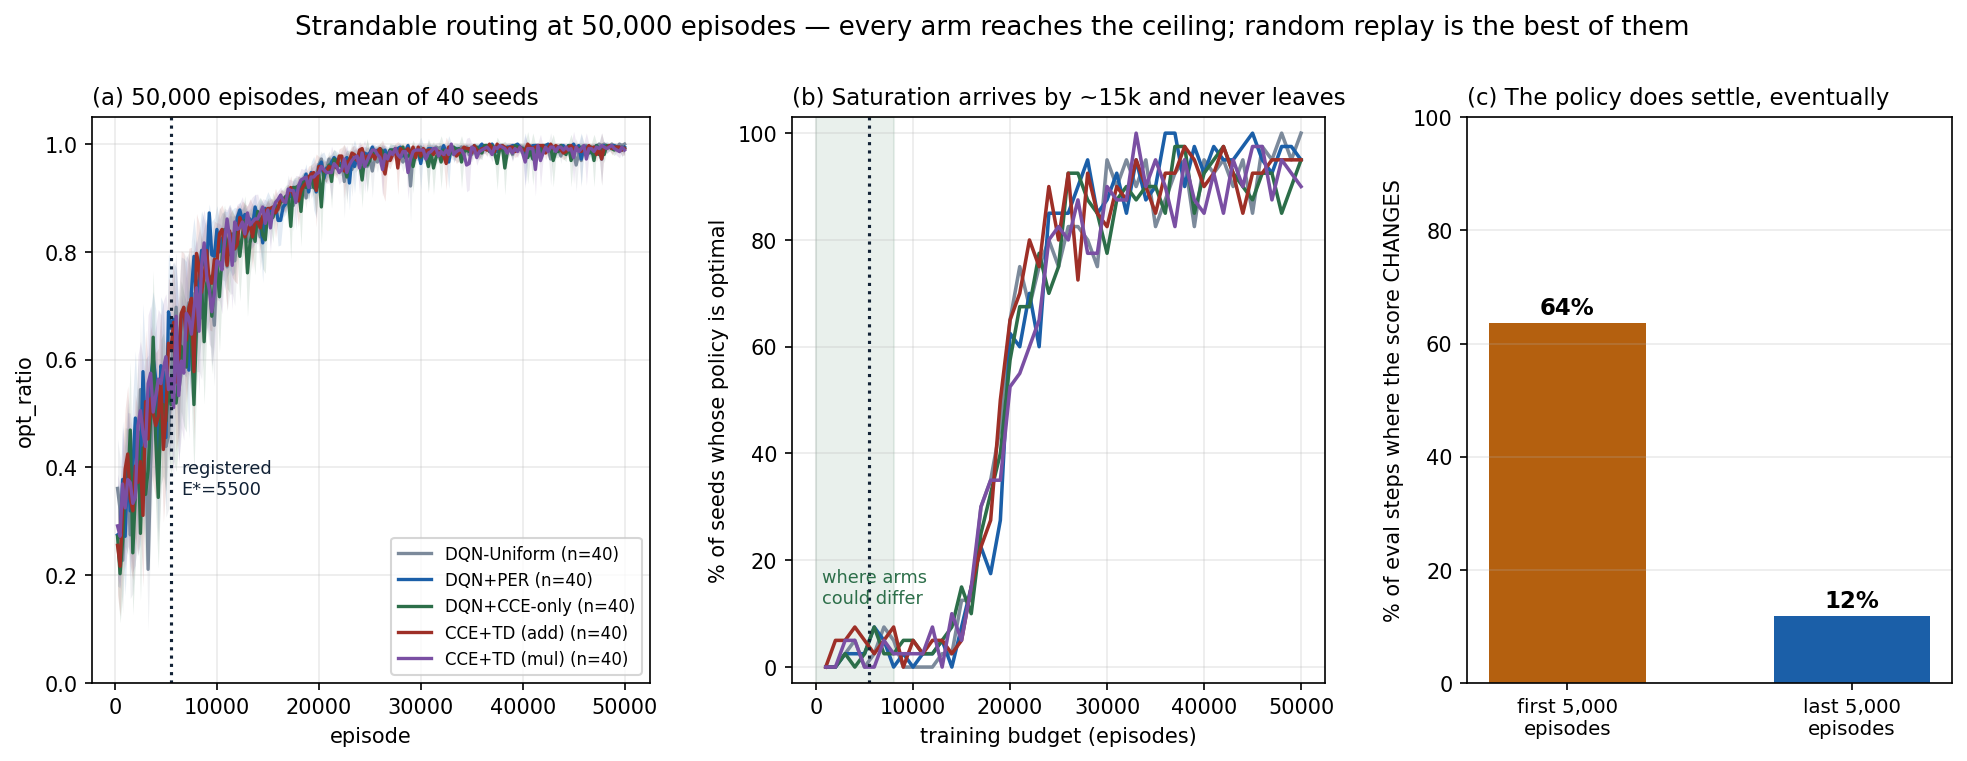
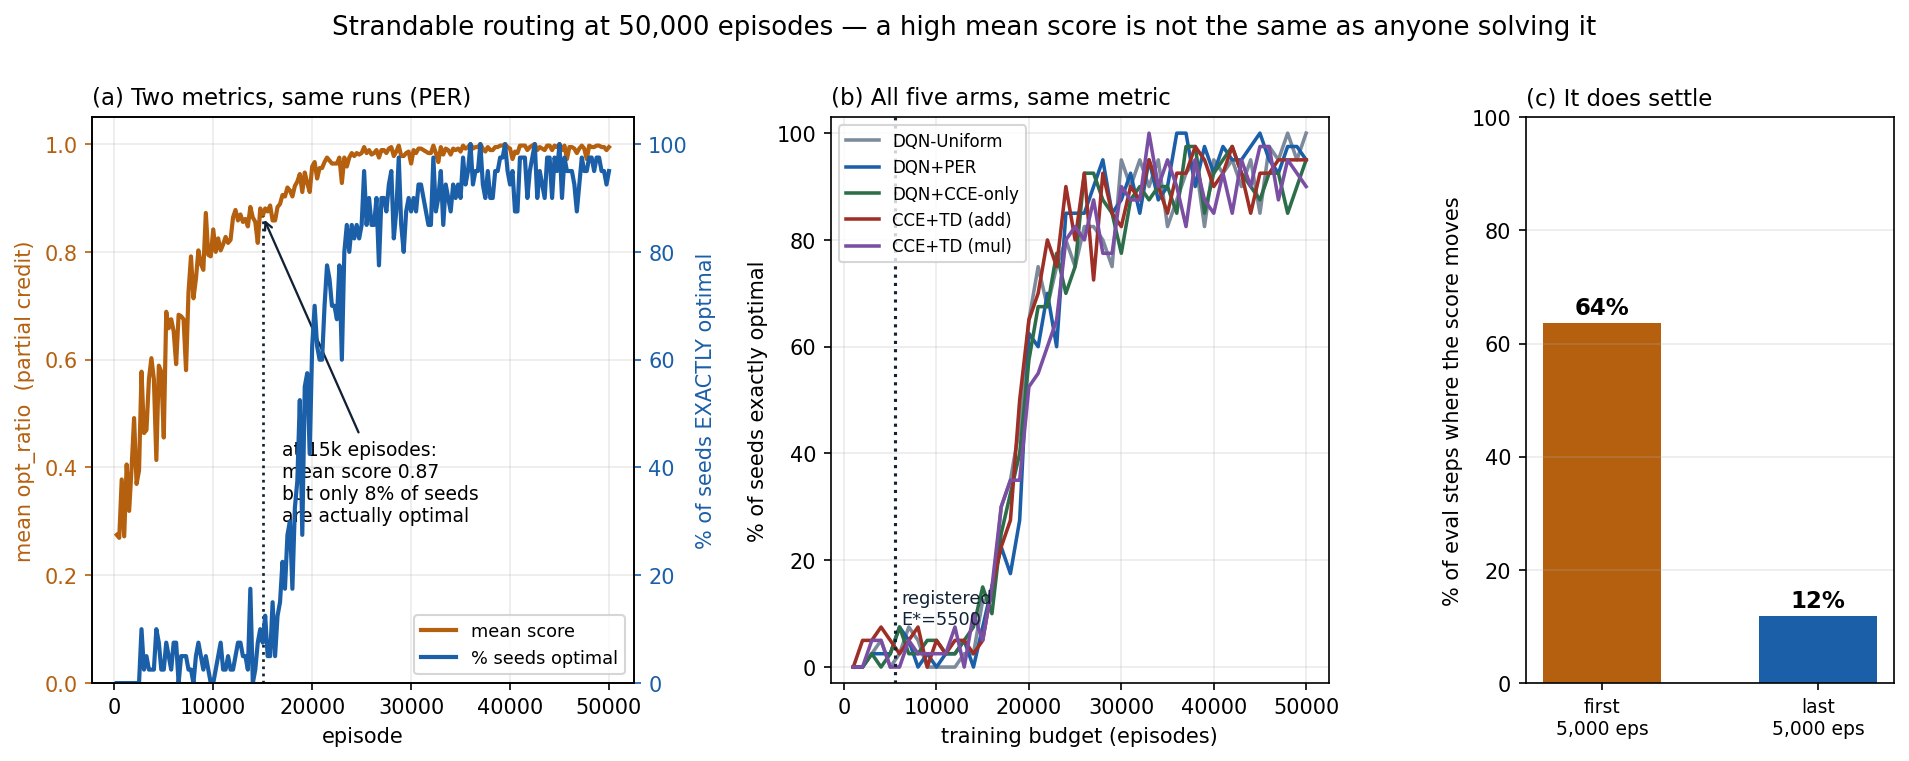
Redraw the 50k figure so the two metrics are directly comparable
Panels (a) and (b) previously both showed a rising, saturating curve and read as
redundant. They were measuring different things, and the gap between them is the
point: mean opt_ratio gives partial credit, so at 15,000 episodes it reads 0.87 while
only 8% of seeds are actually optimal.

Panel (a) now plots both on twin axes for the same runs, annotated at that crossing.
Panel (b) keeps the per-arm comparison on the all-or-nothing metric alone.

This is the same trap that made the original CVRP sweep look informative when it was
not, so it is worth showing rather than describing.

Claude-Session: https://claude.ai/code/session_019Xzvv6y6ZRCCiMAQNncbQm

diff --git a/src/counterfactual_rl/analysis/claim2/optionA_50k_figure.py b/src/counterfactual_rl/analysis/claim2/optionA_50k_figure.py
@@ -61,48 +61,54 @@ def main(argv=None):
     matplotlib.use('Agg')
     import matplotlib.pyplot as plt
 
-    fig = plt.figure(figsize=(16, 4.9))
-    gs = fig.add_gridspec(1, 3, width_ratios=[1.15, 1.1, 1.0], wspace=0.27)
+    fig = plt.figure(figsize=(15.5, 4.9))
+    gs = fig.add_gridspec(1, 3, width_ratios=[1.25, 1.15, 0.85], wspace=0.42)
 
-    # (a) mean curves
+    # (a) the two metrics on ONE panel — they disagree, and that is the point
     ax = fig.add_subplot(gs[0, 0])
-    for a in ARMS:
-        runs = data.get(a, [])
-        if not runs:
-            continue
-        n = min(len(v) for _, _, v in runs)
-        eps = runs[0][1][:n]
-        M = np.vstack([v[:n] for _, _, v in runs])
-        mean = M.mean(axis=0); sem = M.std(axis=0) / np.sqrt(M.shape[0])
-        ax.plot(eps, mean, color=COLOR[a], lw=1.6, label=f'{LABEL[a]} (n={len(runs)})')
-        ax.fill_between(eps, mean - 1.96 * sem, mean + 1.96 * sem,
-                        color=COLOR[a], alpha=0.12, lw=0)
-    ax.axvline(5500, color='#122236', ls=':', lw=1.5)
-    ax.text(6500, 0.35, 'registered\nE*=5500', fontsize=8.5, color='#122236')
-    ax.set_xlabel('episode'); ax.set_ylabel('opt_ratio')
-    ax.set_title('(a) 50,000 episodes, mean of 40 seeds', fontsize=11, loc='left')
-    ax.grid(alpha=.25); ax.legend(fontsize=8, loc='lower right'); ax.set_ylim(0, 1.05)
+    ax2 = ax.twinx()
+    runs = data['per']
+    n = min(len(v) for _, _, v in runs)
+    eps = runs[0][1][:n]
+    M = np.vstack([v[:n] for _, _, v in runs])
+    mean = M.mean(axis=0)
+    rate = 100 * (M >= 0.9999).mean(axis=0)
+    l1, = ax.plot(eps, mean, color='#B4600F', lw=2.0)
+    l2, = ax2.plot(eps, rate, color='#1B5FA8', lw=2.0)
+    i15 = np.searchsorted(eps, 15000)
+    ax.plot([eps[i15], eps[i15]], [0, mean[i15]], color='#122236', ls=':', lw=1.3)
+    ax.annotate(f'at 15k episodes:\nmean score {mean[i15]:.2f}\nbut only '
+                f'{rate[i15]:.0f}% of seeds\nare actually optimal',
+                xy=(eps[i15], mean[i15]), xytext=(17000, 0.30), fontsize=9,
+                arrowprops=dict(arrowstyle='->', lw=1.1, color='#122236'))
+    ax.set_xlabel('episode')
+    ax.set_ylabel('mean opt_ratio  (partial credit)', color='#B4600F')
+    ax2.set_ylabel('% of seeds EXACTLY optimal', color='#1B5FA8')
+    ax.tick_params(axis='y', colors='#B4600F'); ax2.tick_params(axis='y', colors='#1B5FA8')
+    ax.set_ylim(0, 1.05); ax2.set_ylim(0, 105)
+    ax.set_title('(a) Two metrics, same runs (PER)', fontsize=11, loc='left')
+    ax.grid(alpha=.25)
+    ax.legend([l1, l2], ['mean score', '% seeds optimal'], fontsize=8.5, loc='lower right')
 
-    # (b) solve rate vs training budget
+    # (b) solve rate per arm
     ax = fig.add_subplot(gs[0, 1])
     grid = np.arange(1000, 50001, 1000)
     for a in ARMS:
-        runs = data.get(a, [])
-        if not runs:
+        rs = data.get(a, [])
+        if not rs:
             continue
         rates = []
         for g in grid:
-            hits = sum(1 for _, e, v in runs
+            hits = sum(1 for _, e, v in rs
                        if (i := np.searchsorted(e, g)) < len(v) and v[i] >= 0.9999)
-            rates.append(100 * hits / len(runs))
+            rates.append(100 * hits / len(rs))
         ax.plot(grid, rates, color=COLOR[a], lw=1.7, label=LABEL[a])
-    ax.axvspan(0, 8000, color='#2C6E49', alpha=0.10)
-    ax.text(600, 12, 'where arms\ncould differ', fontsize=8.5, color='#2C6E49')
     ax.axvline(5500, color='#122236', ls=':', lw=1.5)
+    ax.text(6200, 8, 'registered\nE*=5500', fontsize=8.5, color='#122236')
     ax.set_xlabel('training budget (episodes)')
-    ax.set_ylabel('% of seeds whose policy is optimal')
-    ax.set_title('(b) Saturation arrives by ~15k and never leaves', fontsize=11, loc='left')
-    ax.grid(alpha=.25); ax.set_ylim(-3, 103)
+    ax.set_ylabel('% of seeds exactly optimal')
+    ax.set_title('(b) All five arms, same metric', fontsize=11, loc='left')
+    ax.grid(alpha=.25); ax.set_ylim(-3, 103); ax.legend(fontsize=8, loc='upper left')
 
     # (c) does the oscillation survive?
     ax = fig.add_subplot(gs[0, 2])
@@ -118,13 +124,13 @@ def main(argv=None):
     for x, val in zip([0, 1], [100 * np.mean(early), 100 * np.mean(late)]):
         ax.text(x, val + 1.5, f'{val:.0f}%', ha='center', fontsize=11, weight='bold')
     ax.set_xticks([0, 1])
-    ax.set_xticklabels(['first 5,000\nepisodes', 'last 5,000\nepisodes'], fontsize=9.5)
-    ax.set_ylabel('% of eval steps where the score CHANGES')
-    ax.set_title('(c) The policy does settle, eventually', fontsize=11, loc='left')
+    ax.set_xticklabels(['first\n5,000 eps', 'last\n5,000 eps'], fontsize=9)
+    ax.set_ylabel('% of eval steps where the score moves')
+    ax.set_title('(c) It does settle', fontsize=11, loc='left')
     ax.grid(alpha=.25, axis='y'); ax.set_ylim(0, 100)
 
-    fig.suptitle('Strandable routing at 50,000 episodes — every arm reaches the ceiling; '
-                 'random replay is the best of them', fontsize=12.5, y=1.02)
+    fig.suptitle('Strandable routing at 50,000 episodes — a high mean score is not the same '
+                 'as anyone solving it', fontsize=12.5, y=1.02)
     out = Path(args.out); out.mkdir(parents=True, exist_ok=True)
     p = out / 'fig_c2_optionA_50k.png'
     fig.savefig(p, dpi=150, bbox_inches='tight')
